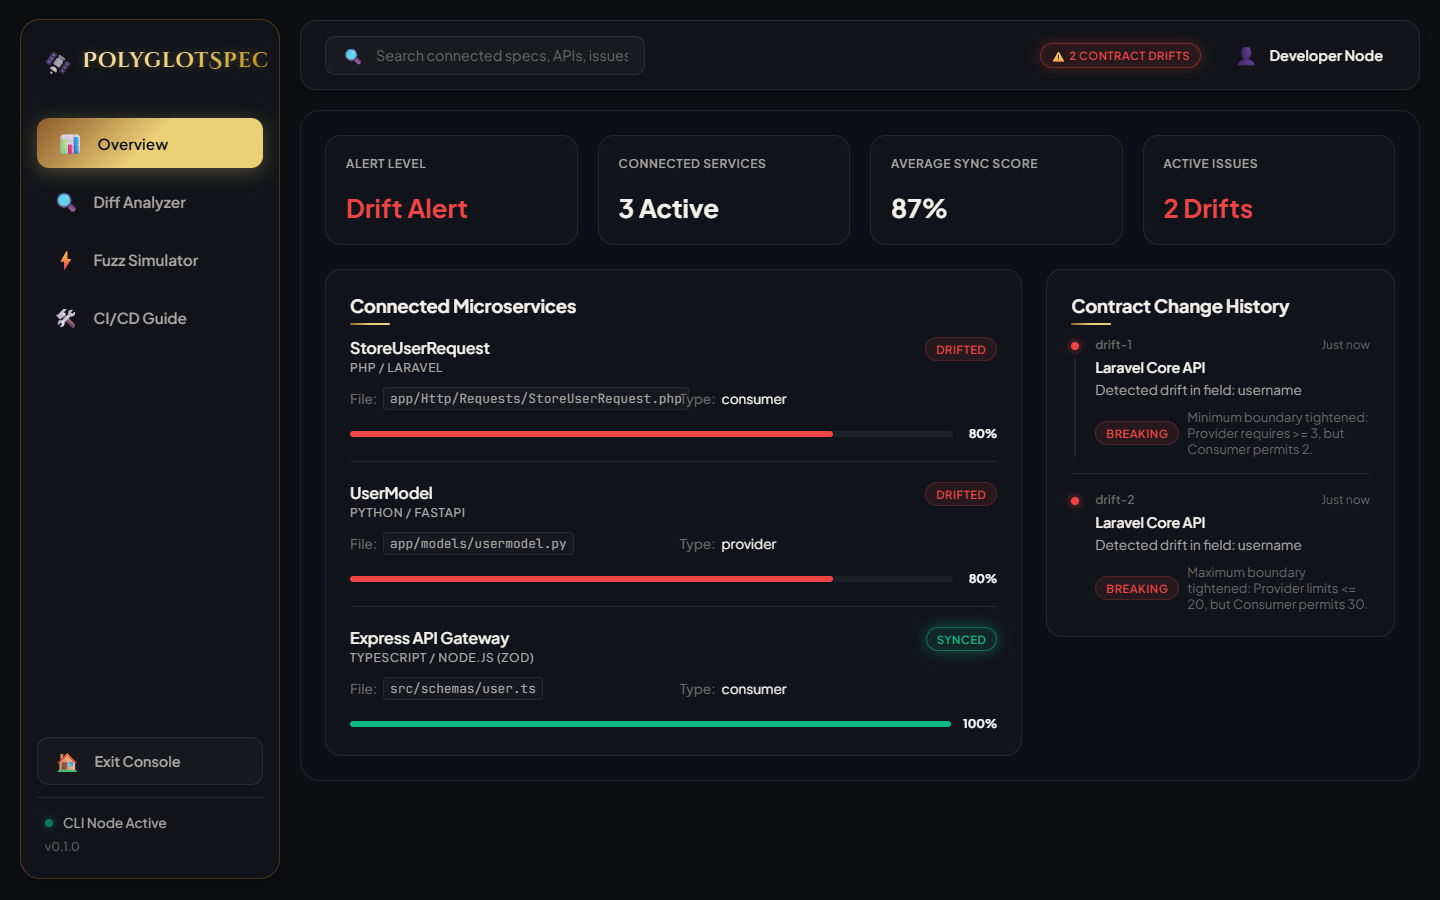
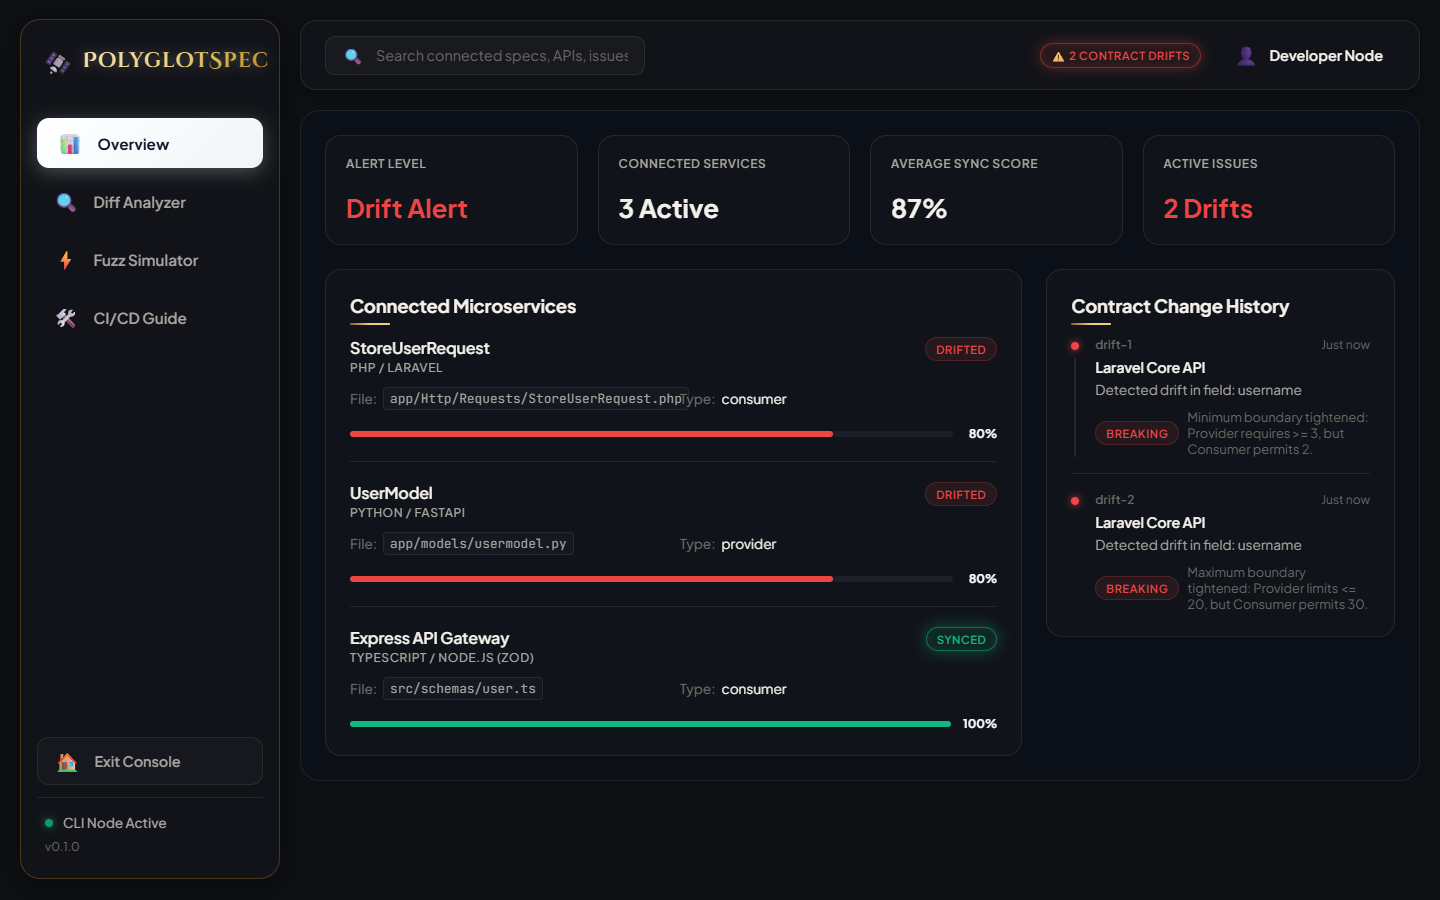
Update sidebar theme from golden to sleek UI-friendly whitish silver style

Changed region(s): [[0.0, 0.1244, 0.1875, 0.1867]]

diff --git a/dashboard/src/components/Sidebar.css b/dashboard/src/components/Sidebar.css
@@ -26,23 +26,23 @@
 
 .brand-name {
   font-size: 0.94rem;
-  font-family: 'Cinzel Decorative', serif;
-  font-weight: 700;
-  letter-spacing: 0.02em;
-  background: linear-gradient(135deg, #fce0ad 0%, #ecd078 50%, #b8860b 100%);
+  font-family: 'Plus Jakarta Sans', 'Inter', sans-serif;
+  font-weight: 800;
+  letter-spacing: 0.03em;
+  background: linear-gradient(135deg, #ffffff 0%, #e2e8f0 60%, #cbd5e1 100%);
   -webkit-background-clip: text;
   -webkit-text-fill-color: transparent;
   background-clip: text;
-  filter: drop-shadow(0 0 5px rgba(236, 208, 120, 0.3));
+  filter: drop-shadow(0 0 6px rgba(255, 255, 255, 0.3));
   animation: logo-glow 3s infinite ease-in-out;
 }
 
 @keyframes logo-glow {
   0%, 100% {
-    filter: drop-shadow(0 0 4px rgba(236, 208, 120, 0.25));
+    filter: drop-shadow(0 0 4px rgba(255, 255, 255, 0.25));
   }
   50% {
-    filter: drop-shadow(0 0 12px rgba(236, 208, 120, 0.65));
+    filter: drop-shadow(0 0 12px rgba(255, 255, 255, 0.5));
   }
 }
 
@@ -72,15 +72,16 @@
 }
 
 .nav-item:hover {
-  background: rgba(255, 255, 255, 0.03);
-  color: var(--text-primary);
+  background: rgba(255, 255, 255, 0.05);
+  color: #ffffff;
   padding-left: 20px;
 }
 
 .nav-item.active {
-  background: var(--color-accent-gradient);
-  color: #0d0f13;
-  box-shadow: 0 4px 20px rgba(236, 208, 120, 0.3);
+  background: linear-gradient(135deg, #ffffff 0%, #f1f5f9 100%);
+  color: #0f172a;
+  box-shadow: 0 4px 18px rgba(255, 255, 255, 0.25);
+  font-weight: 700;
 }
 
 .nav-icon {
